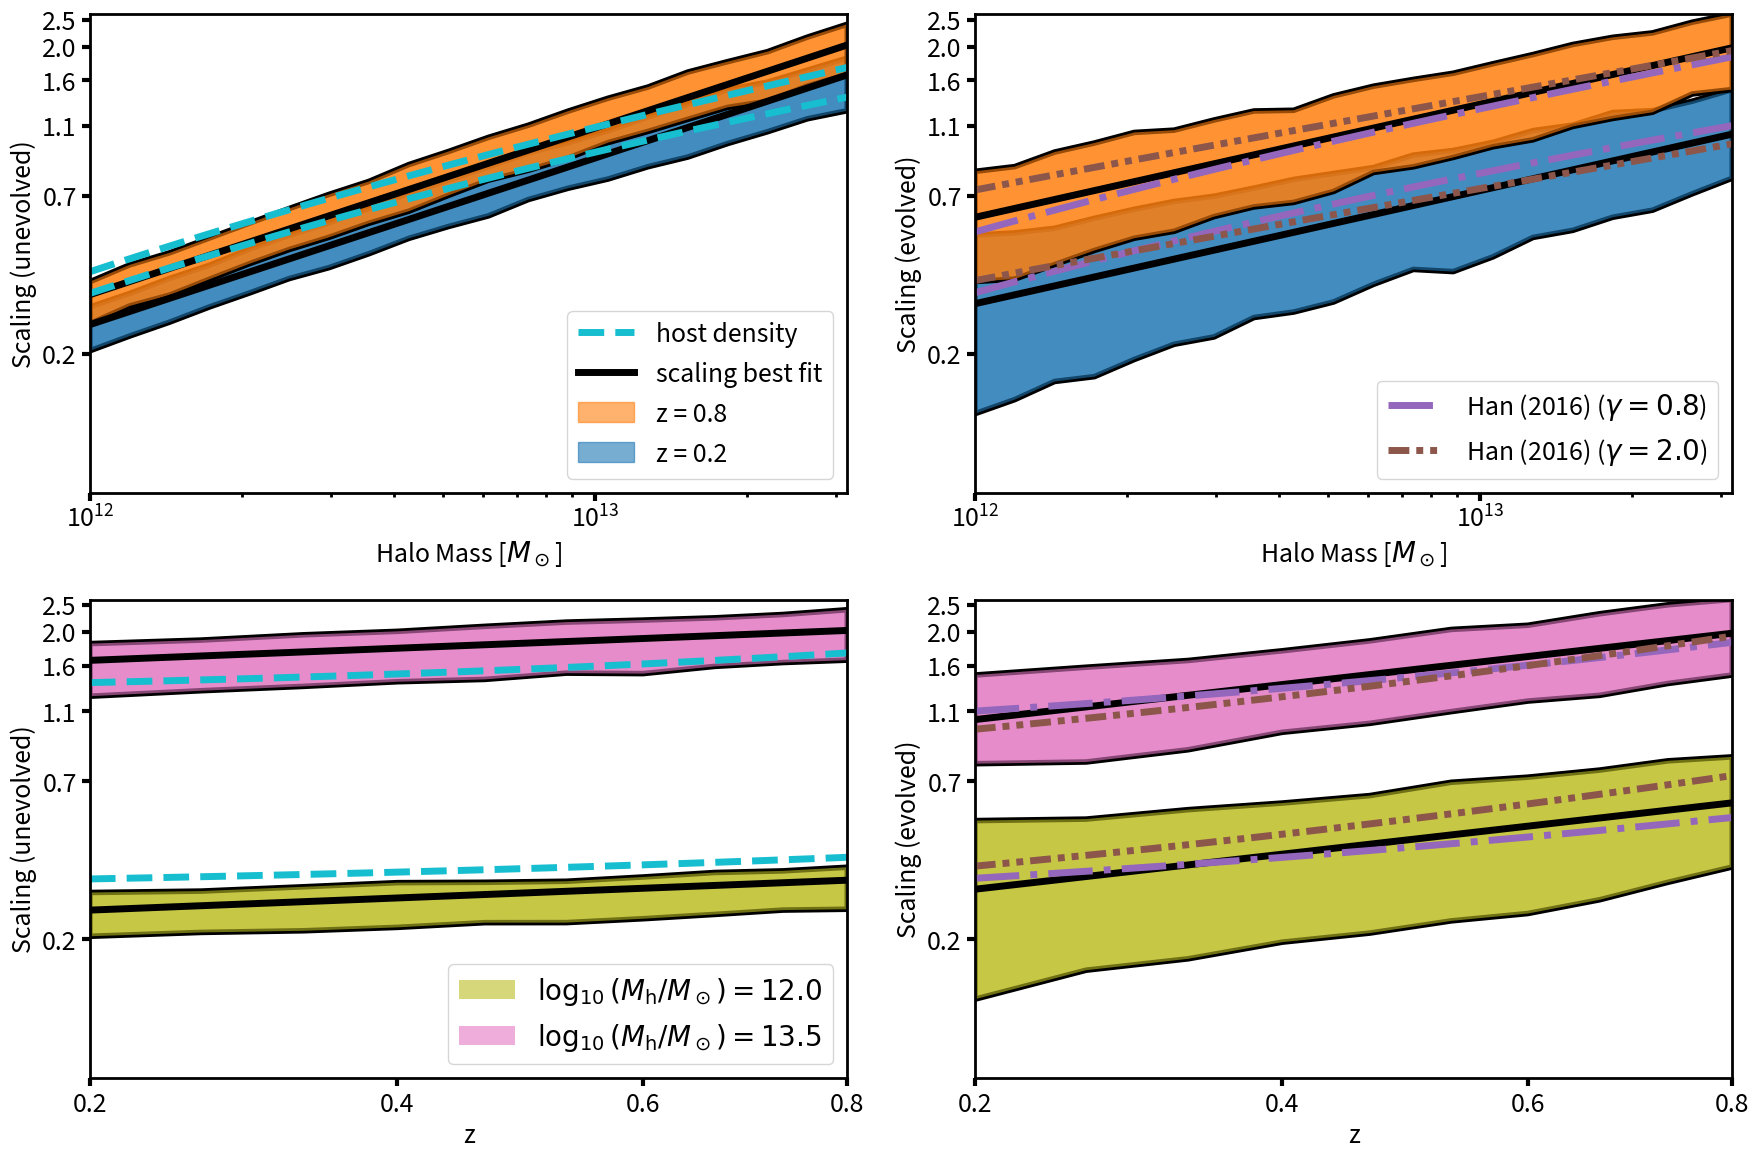
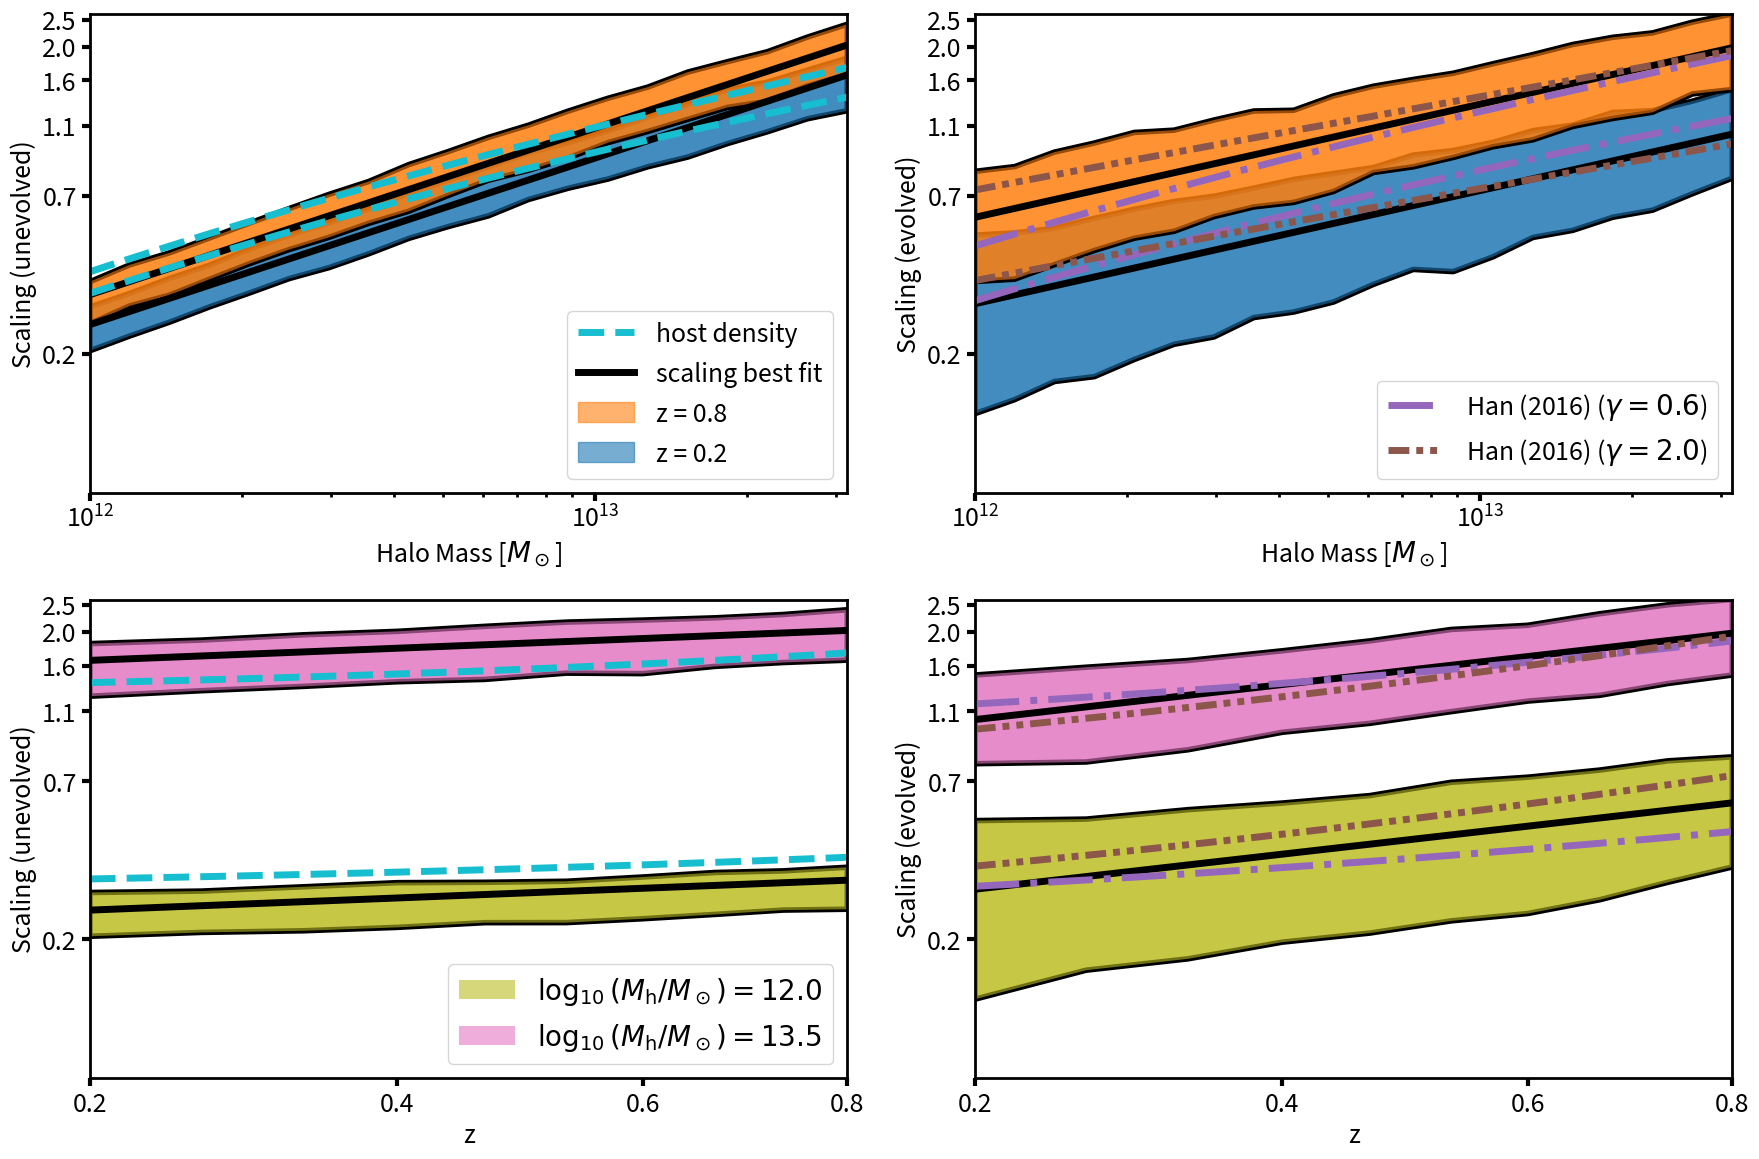
Updated scaling plot to show gamma=0.6

diff --git a/scaling_plot.py b/scaling_plot.py
@@ -249,7 +249,7 @@ def plot_mh_scaling(fig, axs, filend, scaling_data):
 
     mh_mg, z_mg, scaling_nfw_arr =  scaling_nfw(h_rannulus,h_mspace,h_zspace,cosmo)
     mh_mg, z_mg, scaling_best_fit = scaling_han_model(h_rannulus,h_mspace,h_zspace, cosmo, gamma_bf)
-    mh_mg, z_mg, scaling_g80 =      scaling_han_model(h_rannulus,h_mspace,h_zspace, cosmo, 0.8)
+    mh_mg, z_mg, scaling_g80 =      scaling_han_model(h_rannulus,h_mspace,h_zspace, cosmo, 0.6)
     mh_mg, z_mg, scaling_g200 =     scaling_han_model(h_rannulus,h_mspace,h_zspace, cosmo, 2.00)
     #mh_mg, z_mg, scaling_interp =   scaling_han_model(h_rannulus,h_mspace,h_zspace, cosmo, fstripped=interp_t)
 
@@ -290,7 +290,7 @@ def plot_mh_scaling(fig, axs, filend, scaling_data):
 
     plot_scaling_def(fig, ax2, dict_g080,key_n_proj_bound, key_n_proj_bound_scatter,norm=1,
                         kwargs_fill=dict(visible=False), kwargs_plot=dict(color="tab:purple", linestyle="dashdot"),
-                        kwargs_plot_list=[dict(label=r"Han (2016) ($\gamma = 0.8$)"), {}],
+                        kwargs_plot_list=[dict(label=r"Han (2016) ($\gamma = 0.6$)"), {}],
                         key_x=KEY_DEF_HALOMASS, key_y=KEY_DEF_Z)
 
     plot_scaling_def(fig, ax2, dict_g200,key_n_proj_bound, key_n_proj_bound_scatter,norm=1,
@@ -359,7 +359,7 @@ def plot_z_scaling(fig, axs, filend, scaling_data):
 
     mh_mg, z_mg, scaling_nfw_arr =  scaling_nfw(h_rannulus,h_mspace,h_zspace,cosmo)
     mh_mg, z_mg, scaling_best_fit = scaling_han_model(h_rannulus,h_mspace,h_zspace, cosmo, gamma_bf)
-    mh_mg, z_mg, scaling_g80 =      scaling_han_model(h_rannulus,h_mspace,h_zspace, cosmo, 0.8)
+    mh_mg, z_mg, scaling_g80 =      scaling_han_model(h_rannulus,h_mspace,h_zspace, cosmo, 0.6)
     mh_mg, z_mg, scaling_g200 =     scaling_han_model(h_rannulus,h_mspace,h_zspace, cosmo, 2.00)
     #mh_mg, z_mg, scaling_interp =   scaling_han_model(h_rannulus,h_mspace,h_zspace, cosmo, fstripped=interp_t) 
     
@@ -403,7 +403,7 @@ def plot_z_scaling(fig, axs, filend, scaling_data):
    #
     plot_scaling_def(fig, ax2, dict_g080,key_n_proj_bound, key_n_proj_bound_scatter,norm=1,
                         kwargs_fill=dict(visible=False), kwargs_plot=dict(color="tab:purple", linestyle="dashdot"),
-                        kwargs_plot_list=[dict(label=r"Han (2016) ($\gamma = 0.8$)"), {}])
+                        kwargs_plot_list=[dict(label=r"Han (2016) ($\gamma = 0.6$)"), {}])
 
     plot_scaling_def(fig, ax2, dict_g200,key_n_proj_bound, key_n_proj_bound_scatter,norm=1,
                         kwargs_fill=dict(visible=False), kwargs_plot=dict(color="tab:brown", linestyle=(0, (3, 1, 1, 1, 1, 1))),
